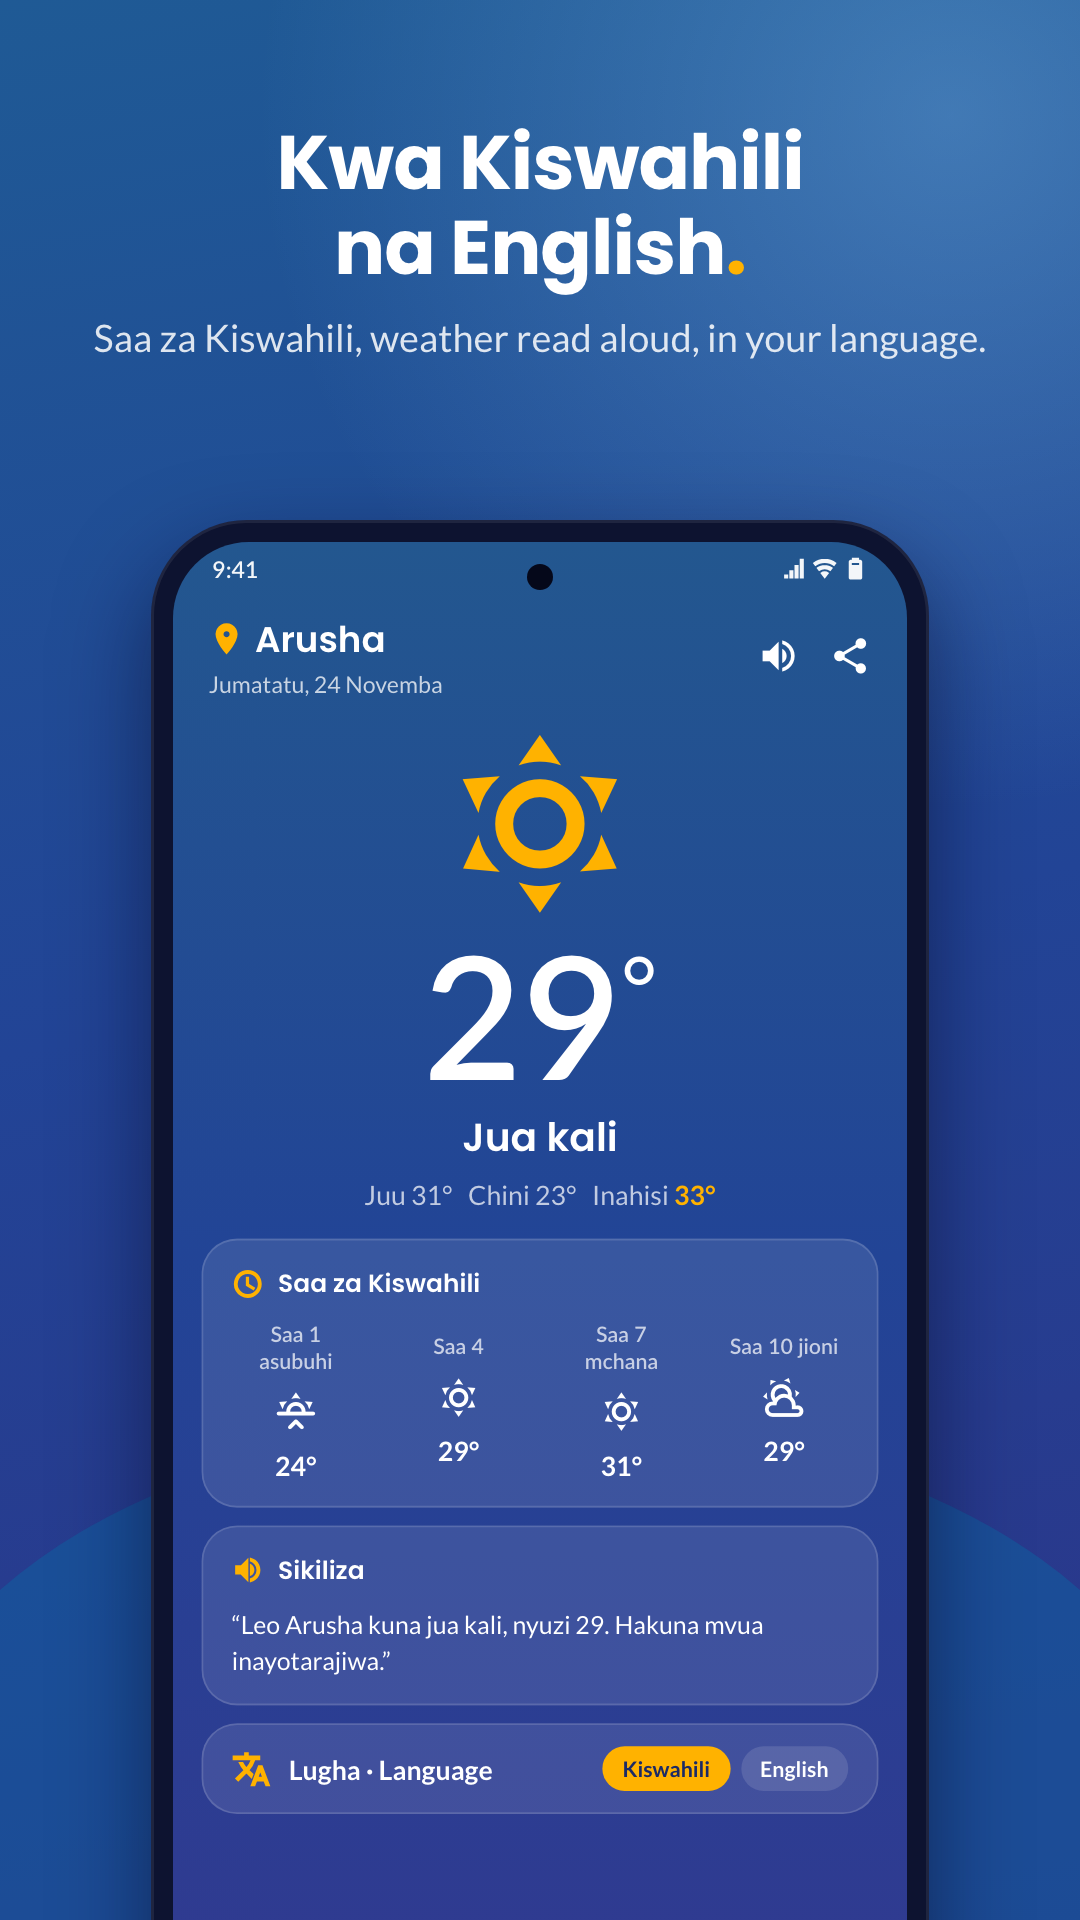
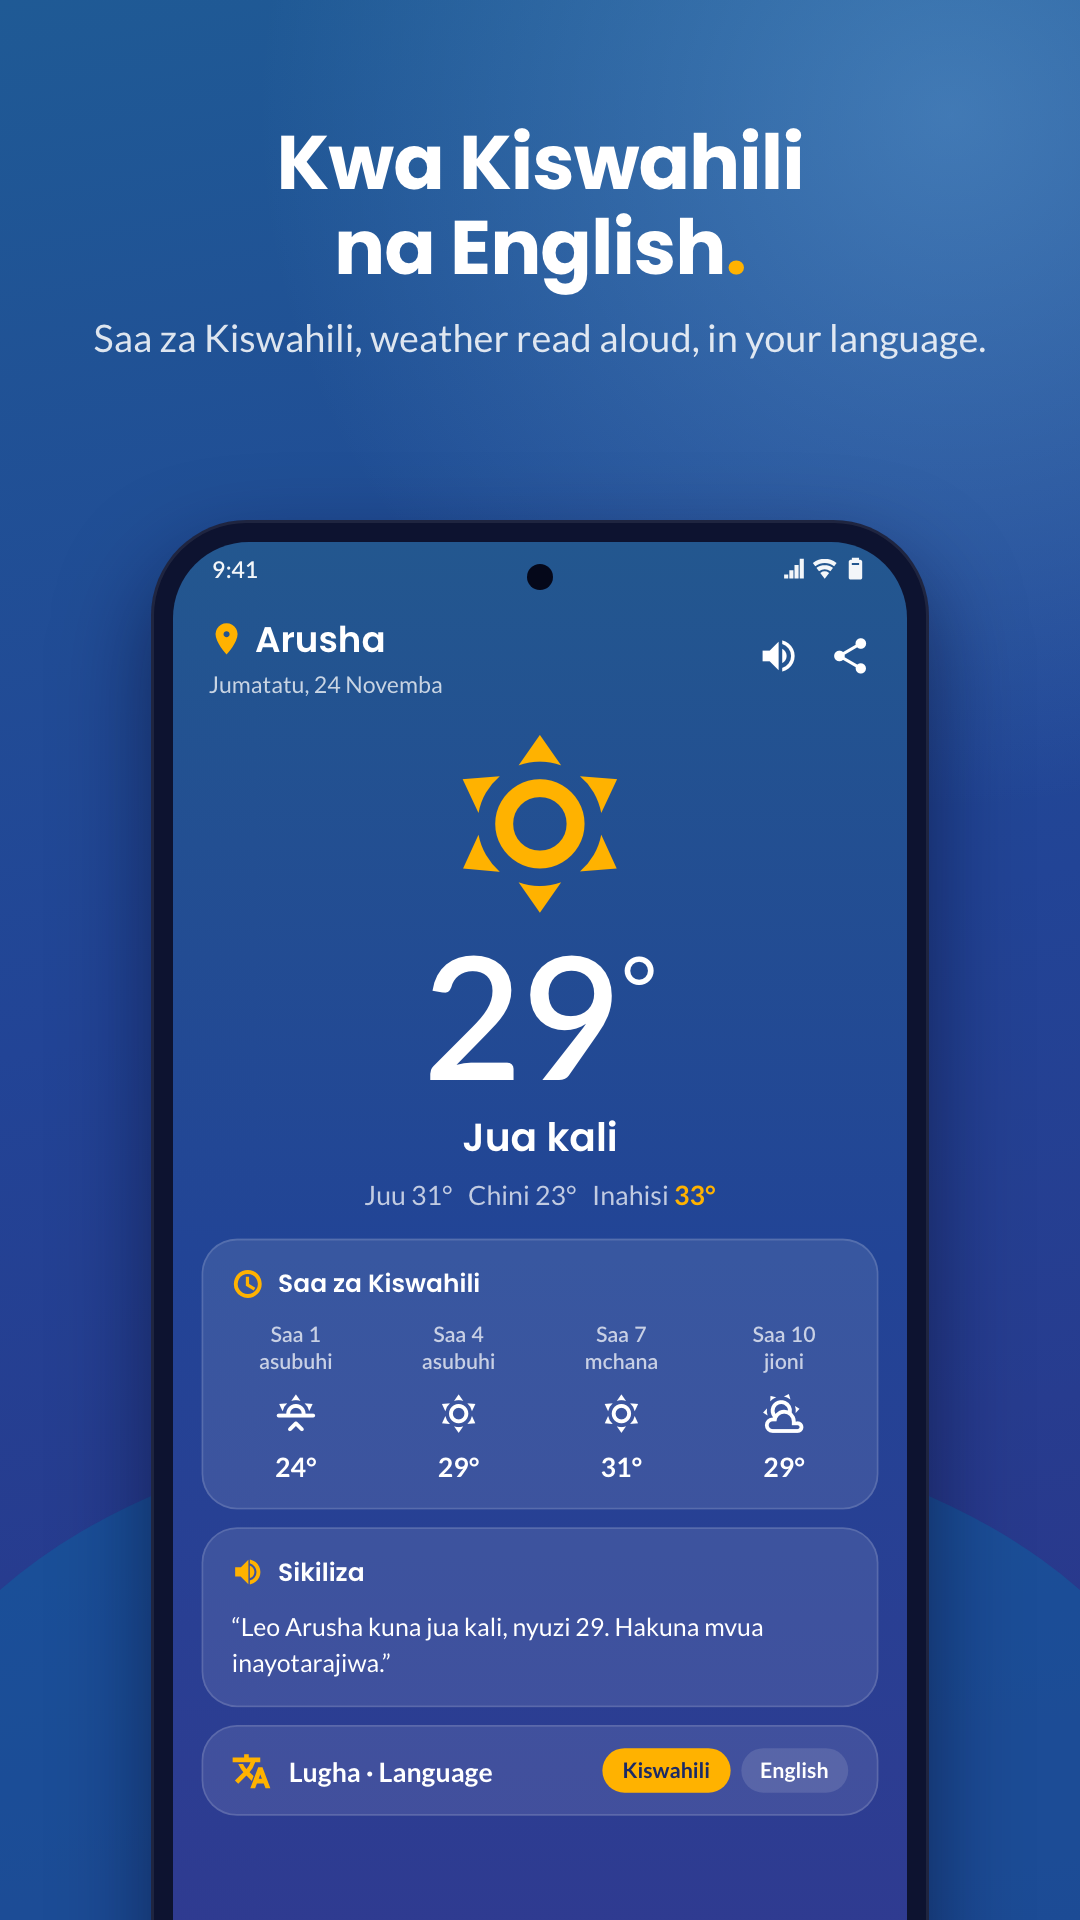
Docs: Update Kiswahili store screenshot

diff --git a/store-assets/google-play/src/html/phone-06-kiswahili.html b/store-assets/google-play/src/html/phone-06-kiswahili.html
@@ -67,7 +67,7 @@ html,body{width:1080px;height:1920px}</style></head><body><div class="canvas"><d
   <div class="muted" style="font:400 15px Lato;margin-top:6px">Juu 31°&nbsp;&nbsp; Chini 23°&nbsp;&nbsp; Inahisi <b class="amber">33°</b></div>
 </div>
 <div class="card" style="margin-top:16px"><h4><i class="mdi " style="font-size:18px;color:#FFB200;">&#983376;</i>Saa za Kiswahili</h4>
-  <div class="row"><div style="text-align:center;width:72px"><div class="muted" style="font:600 12px Lato">Saa 1 asubuhi</div><div style="margin:8px 0"><i class="mdi " style="font-size:26px;">&#984476;</i></div><div style="font:700 15px Lato">24°</div></div><div style="text-align:center;width:72px"><div class="muted" style="font:600 12px Lato">Saa 4</div><div style="margin:8px 0"><i class="mdi " style="font-size:26px;">&#984473;</i></div><div style="font:700 15px Lato">29°</div></div><div style="text-align:center;width:72px"><div class="muted" style="font:600 12px Lato">Saa 7 mchana</div><div style="margin:8px 0"><i class="mdi " style="font-size:26px;">&#984473;</i></div><div style="font:700 15px Lato">31°</div></div><div style="text-align:center;width:72px"><div class="muted" style="font:600 12px Lato">Saa 10 jioni</div><div style="margin:8px 0"><i class="mdi " style="font-size:26px;">&#984469;</i></div><div style="font:700 15px Lato">29°</div></div></div></div>
+  <div class="row"><div style="text-align:center;width:72px"><div class="muted" style="font:600 12px/1.3 Lato">Saa 1<br>asubuhi</div><div style="margin:8px 0"><i class="mdi " style="font-size:26px;">&#984476;</i></div><div style="font:700 15px Lato">24°</div></div><div style="text-align:center;width:72px"><div class="muted" style="font:600 12px/1.3 Lato">Saa 4<br>asubuhi</div><div style="margin:8px 0"><i class="mdi " style="font-size:26px;">&#984473;</i></div><div style="font:700 15px Lato">29°</div></div><div style="text-align:center;width:72px"><div class="muted" style="font:600 12px/1.3 Lato">Saa 7<br>mchana</div><div style="margin:8px 0"><i class="mdi " style="font-size:26px;">&#984473;</i></div><div style="font:700 15px Lato">31°</div></div><div style="text-align:center;width:72px"><div class="muted" style="font:600 12px/1.3 Lato">Saa 10<br>jioni</div><div style="margin:8px 0"><i class="mdi " style="font-size:26px;">&#984469;</i></div><div style="font:700 15px Lato">29°</div></div></div></div>
 <div class="card"><h4><i class="mdi " style="font-size:18px;color:#FFB200;">&#984446;</i>Sikiliza</h4>
   <div style="font:400 14px/1.45 Lato">“Leo Arusha kuna jua kali, nyuzi 29. Hakuna mvua inayotarajiwa.”</div></div>
 <div class="card row" style="padding:12px 16px"><span style="display:flex;gap:10px;align-items:center;font:700 15px Lato"><i class="mdi " style="font-size:22px;color:#FFB200;">&#984522;</i>Lugha · Language</span>

diff --git a/store-assets/google-play/src/build.py b/store-assets/google-play/src/build.py
@@ -221,7 +221,7 @@ def s_swahili():
   <div class="muted" style="font:400 15px Lato;margin-top:6px">Juu 31°&nbsp;&nbsp; Chini 23°&nbsp;&nbsp; Inahisi <b class="amber">33°</b></div>
 </div>
 <div class="card" style="margin-top:16px"><h4>{ic('clock-outline',18,SECONDARY)}Saa za Kiswahili</h4>
-  <div class="row">{''.join(f'<div style="text-align:center;width:72px"><div class="muted" style="font:600 12px Lato">{h}</div><div style="margin:8px 0">{ic(n,26)}</div><div style="font:700 15px Lato">{t}°</div></div>' for h,n,t in [('Saa 1 asubuhi','weather-sunset-up',24),('Saa 4','weather-sunny',29),('Saa 7 mchana','weather-sunny',31),('Saa 10 jioni','weather-partly-cloudy',29)])}</div></div>
+  <div class="row">{''.join(f'<div style="text-align:center;width:72px"><div class="muted" style="font:600 12px/1.3 Lato">{h}</div><div style="margin:8px 0">{ic(n,26)}</div><div style="font:700 15px Lato">{t}°</div></div>' for h,n,t in [('Saa 1<br>asubuhi','weather-sunset-up',24),('Saa 4<br>asubuhi','weather-sunny',29),('Saa 7<br>mchana','weather-sunny',31),('Saa 10<br>jioni','weather-partly-cloudy',29)])}</div></div>
 <div class="card"><h4>{ic('volume-high',18,SECONDARY)}Sikiliza</h4>
   <div style="font:400 14px/1.45 Lato">“Leo Arusha kuna jua kali, nyuzi 29. Hakuna mvua inayotarajiwa.”</div></div>
 <div class="card row" style="padding:12px 16px"><span style="display:flex;gap:10px;align-items:center;font:700 15px Lato">{ic('translate',22,SECONDARY)}Lugha · Language</span>
